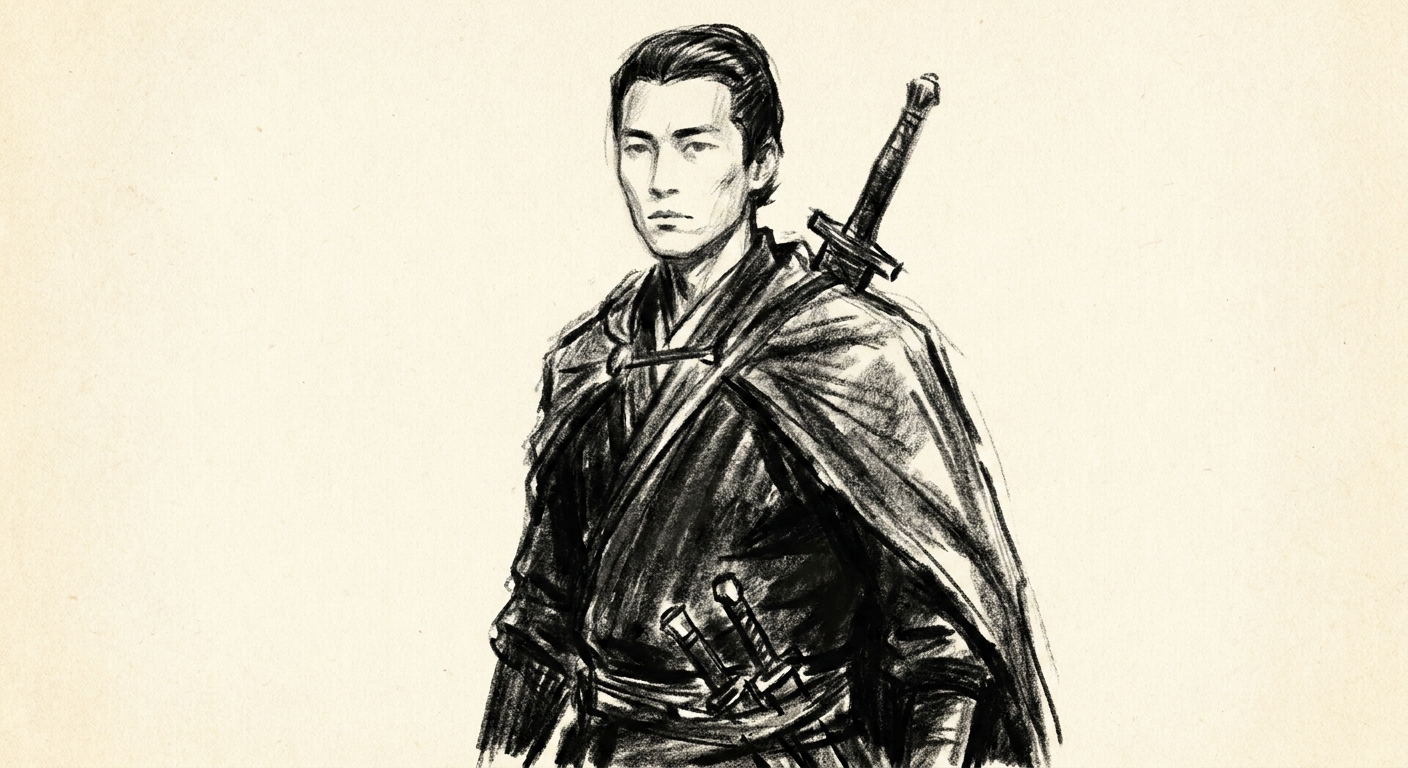
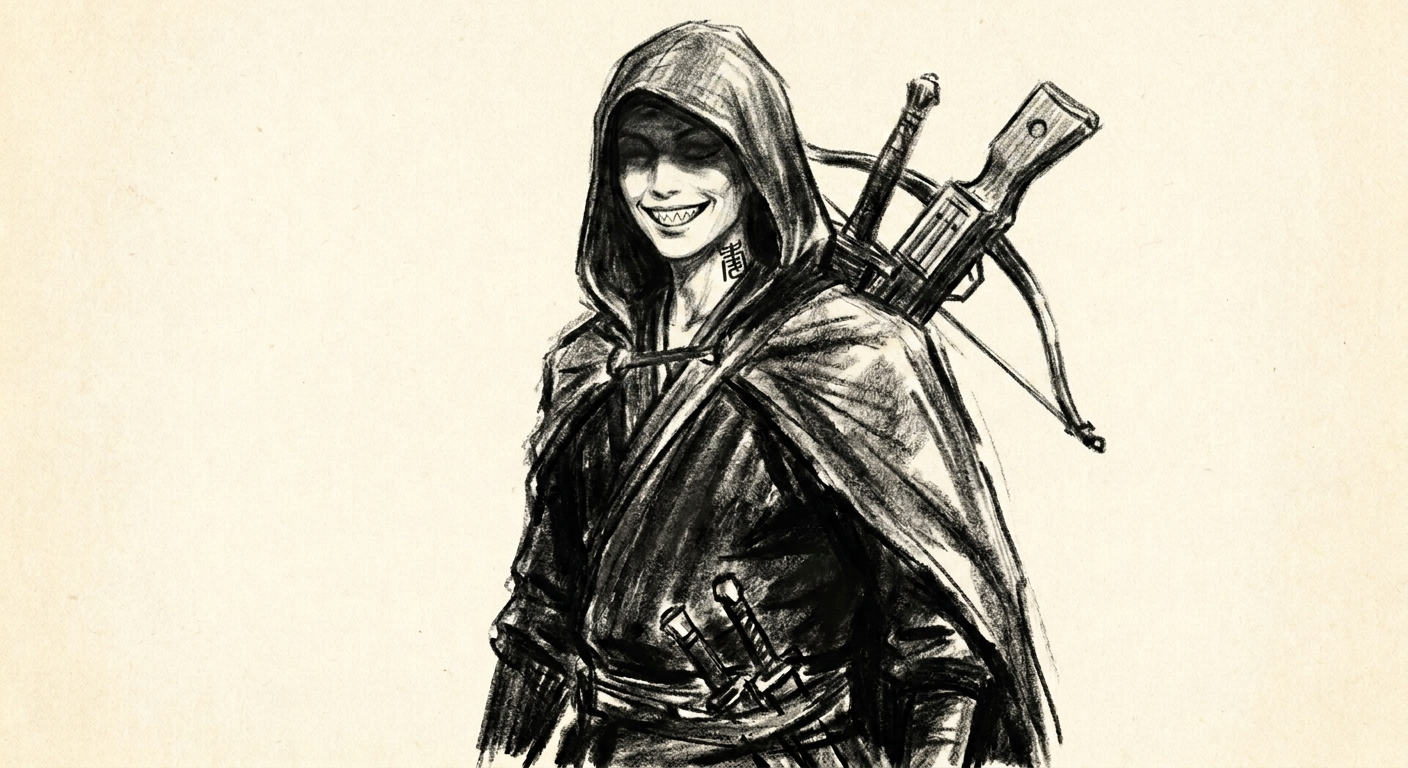
Bilgin: Han woman with filed teeth, hooded, repeating crossbow
Iterate the portrait and correct the NPC blurb's pronouns.

- Hood up, eyes in shadow under the brim
- Rictus grin with every tooth filed to a sharp point
- Imperial-slave brand tattoo on the side of her neck
- Zhuge nu (Chinese wooden repeating crossbow) added to her back
  alongside the existing back-sword and hip blades
- data.js blurb pronouns flipped to she/her

diff --git a/data.js b/data.js
@@ -690,7 +690,7 @@ window.SILKROAD_DATA = {
       role: "Tang assassin",
       region: "Wherever Lüèduó goes",
       image: "images/npcs/bilgin.png",
-      blurb: "A Tang killer dispatched after Lüèduó from across the world. He is who Hind tried to sell our serpent-blooded brother to in the Crimson Desert. He survived the assassins' attack on her household. He is somewhere in Bansi's family's palace now, recruited under a different roof, watching for a different opening.",
+      blurb: "A Tang killer dispatched after Lüèduó from across the world. She is who Hind tried to sell our serpent-blooded brother to in the Crimson Desert. She survived the assassins' attack on her household. She is somewhere in Bansi's family's palace now, recruited under a different roof, watching for a different opening.",
     },
     {
       id: "sophia",
